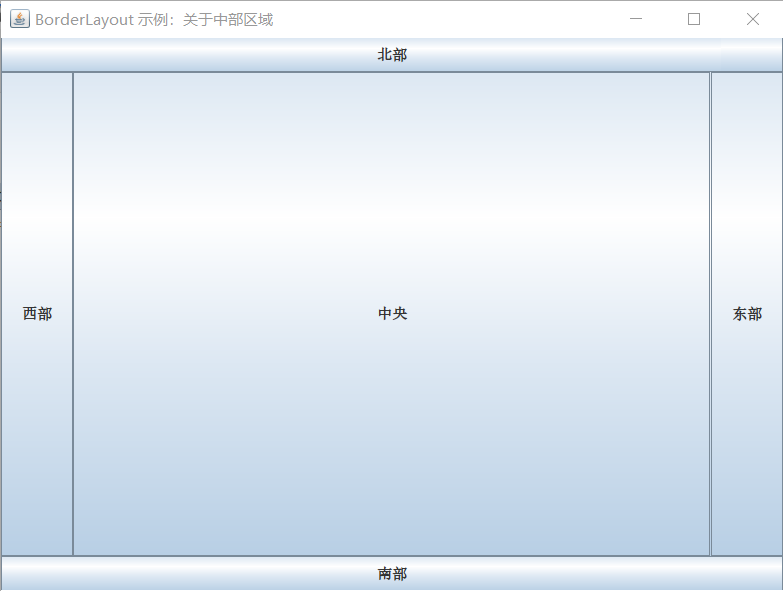
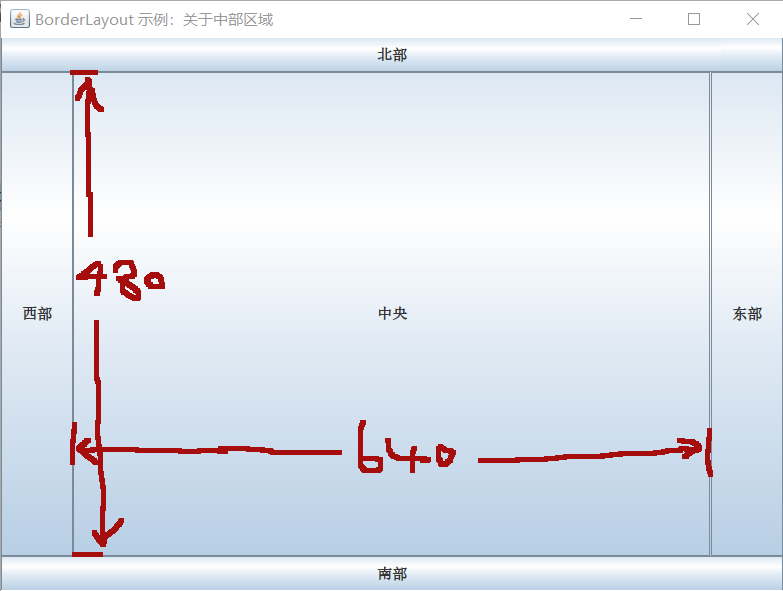
Updated.

diff --git a/docs/Ch13_Using_Swing_Work_on_Your_Swing.md b/docs/Ch13_Using_Swing_Work_on_Your_Swing.md
@@ -310,3 +310,12 @@ public void go () {
 ![`BorderLayout` 管理器：关于中央区域](images/Ch13_14.png)
 
 *图 14 - `BorderLayout` 管理器：关于中央区域*
+
+![上面的代码运行在 Ubuntu 20.04 LTS中的输出](images/Ch13_15.png)
+
+
+*图 15 - 上面的代码运行在 Ubuntu 20.04 LTS中的输出*
+
+> 在把物件放入到内部或南部区域时，物件就会占据整个视窗框的宽度，这样的话东部和西部的物件，就不会有原来北部和南部区域空着的时候那么高了。
+>
+> 注意，上面的尺寸是在 `Windows 10` 上运行的大小；在 `Ubuntu 20.04 LTS` 上，整个窗口的大小为 `640x480` 大小。
